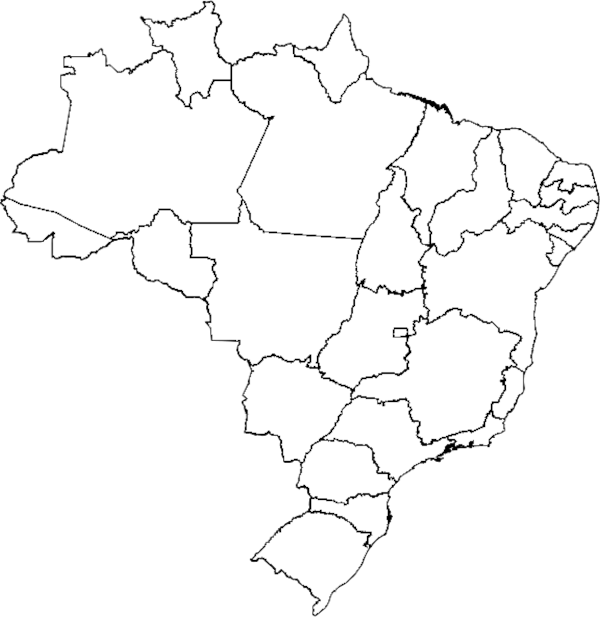
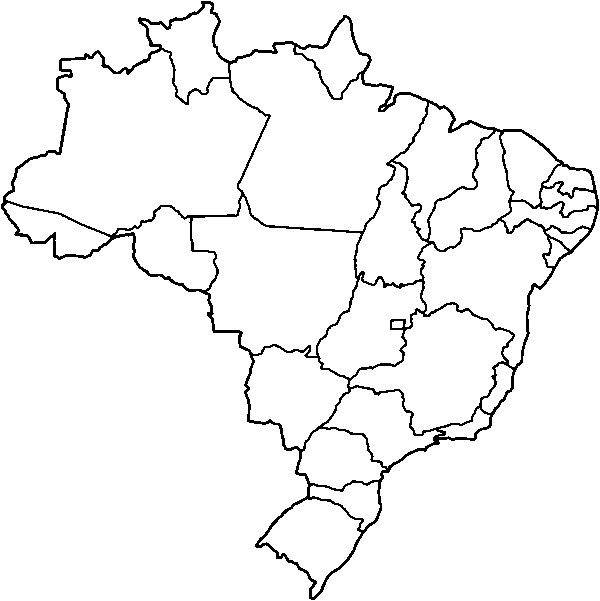
Working on smallest screen size

diff --git a/pages/brazil/index.jsx b/pages/brazil/index.jsx
@@ -7,7 +7,7 @@ import Footer from 'components/footer/footer';
 
 import { styleNumber } from 'utils';
 
-import { COVID_DEATHS, MAP_SIZE, MULTIPLIER, POS } from 'constants/brazil';
+import { COVID_DEATHS, MAP_CONFIG, MULTIPLIER, POS } from 'constants/brazil';
 import {
   COLOR,
   MARKER_LAT_LON_RADIUS,
@@ -21,8 +21,9 @@ import styles from 'styles/country.module.css';
 export default function Country() {
   const { t } = useTranslation('country');
   const canvas = useRef();
-  const latMultiplier = MAP_SIZE.height / MULTIPLIER.lat;
-  const lonMultiplier = MAP_SIZE.height / MULTIPLIER.lon;
+  const mapConfig = MAP_CONFIG.small;
+  const latMultiplier = mapConfig.height / mapConfig.latMult;
+  const lonMultiplier = mapConfig.height / mapConfig.lonMult;
   const [ghostCities, setGhostCities] = useState(new Set());
   const [lockedLatLon, setLockedLatLon] = useState(null);
   const [searchValue, setSearchValue] = useState('');
@@ -44,7 +45,7 @@ export default function Country() {
     },
     {
       title: t('blankMap'),
-      link: 'https://pt.wikipedia.org/wiki/Ficheiro:Brazil_states_blank.png',
+      link: 'https://www.pngwing.com/en/free-png-bbpen',
     },
   ];
 
@@ -184,7 +185,7 @@ export default function Country() {
     let ticker = null;
 
     const drawMap = img => {
-      ctx.drawImage(img, 0, 0, MAP_SIZE.width, MAP_SIZE.height);
+      ctx.drawImage(img, 0, 0, mapConfig.width, mapConfig.height);
     };
 
     const drawMarker = (img, latLon) => {
@@ -218,10 +219,10 @@ export default function Country() {
     markerImg.src = '/images/marker.png';
 
     ticker = setInterval(() => {
-      ctx.clearRect(0, 0, MAP_SIZE.width, MAP_SIZE.height);
+      ctx.clearRect(0, 0, mapConfig.width, mapConfig.height);
 
-      drawMap(mapImg);
       drawCities();
+      drawMap(mapImg);
 
       if (lockedLatLon) {
         drawMarker(markerImg, lockedLatLon);
@@ -239,11 +240,12 @@ export default function Country() {
     <>
       <main className={styles.container}>
         <h2 className={styles.title}>
-          {t('brazil')} - {t('totalCovidDeaths')}<span className="textSeparatorR">:</span>
-          {styleNumber(COVID_DEATHS)} {t('people').toLowerCase()}
+          <span>{t('brazil')} - {t('totalCovidDeaths')}</span>
+          <span className="textSeparatorR">:</span>
+          <span>{styleNumber(COVID_DEATHS)} {t('people').toLowerCase()}</span>
         </h2>
 
-        <div className={styles.mapContainer}>
+        <div className={styles.mainContainer}>
           <div className={styles.infoContainer}>
             <p className={styles.firstParagraph}>{t('goalIsBringAwareness')}</p>
 
@@ -258,8 +260,8 @@ export default function Country() {
             <canvas
               className={styles.map}
               ref={canvas}
-              height={MAP_SIZE.height}
-              width={MAP_SIZE.width}
+              height={mapConfig.height}
+              width={mapConfig.width}
               onMouseMove={canvasMouseMove}
               onClick={canvasClick}
             />
@@ -267,7 +269,7 @@ export default function Country() {
 
           <div className={styles.infoContainer}>
             <div className={styles.infoTitleContainer}>
-              <p className={styles.infoTitle}>{t('thoseCitiesWouldBeEmpty')}</p>
+              <h3 className={styles.infoTitle}>{t('thoseCitiesWouldBeEmpty')}</h3>
 
               <label className={styles.searchField}>
                 <span>{t('search')}</span>

diff --git a/styles/country.module.css b/styles/country.module.css
@@ -1,26 +1,44 @@
 .container {
   min-height: calc(100vh - 199px);
   padding: var(--size-s);
-  padding-top: 0;
+  padding-bottom: var(--size-l);
 }
 
 .title {
+  font-size: var(--text-m);
   margin-top: 0;
   text-align: center;
 }
+.title > span:last-child {
+  display: block;
+}
 
-.mapContainer {
+.mainContainer {
   align-items: flex-start;
   display: flex;
+  flex-direction: column;
 }
 
 .infoContainer {
-  flex: 1;
+  font-size: var(--text-s);
+}
+.infoContainer:first-child {
+  margin-bottom: var(--size-m);
 }
 
 .infoTitleContainer {
   display: flex;
-  justify-content: space-between;
+  flex-direction: column-reverse;
+}
+.infoTitleContainer > h3 {
+  font-size: var(--text-s);
+}
+
+.searchField {
+  margin: var(--size-m) 0 var(--size-l);
+}
+.searchField > span {
+  margin-right: var(--size-s);
 }
 
 .map {
@@ -29,10 +47,8 @@
 }
 
 .citiesList {
-  column-count: 3;
-  column-gap: var(--size-l);
   margin: 0;
-  padding: calc(var(--size-m) + var(--size-s));
+  padding: var(--size-m);
 }
 
 .citiesList > li {
@@ -51,6 +67,9 @@
   margin: 0;
 }
 
-.searchField > span {
-  margin-right: var(--size-s);
+@media only screen and (min-width: 680px) {
+  .citiesList {
+    column-count: 3;
+    column-gap: var(--size-l);
+  }
 }

diff --git a/components/footer/footer.module.css b/components/footer/footer.module.css
@@ -1,11 +1,7 @@
 .footer {
   background-color: var(--color-gray-20);
   color: var(--color-gray-98);
-  display: grid;
-  font-size: var(--text-s);
-  grid-gap: var(--size-s);
-  grid-template-columns: 1fr 1fr;
-  height: 133px;
+  font-size: var(--text-xs);
   padding: var(--size-s);
   width: 100%;
 }
@@ -15,6 +11,7 @@
 }
 
 .footer h3 {
+  font-size: var(--text-xs);
   margin: 0;
 }
 
@@ -30,9 +27,29 @@
   margin-bottom: 0;
 }
 .footer ul > li > span {
+  display: block;
   margin-right: var(--size-s);
+}
+
+.footer > div:last-child {
+  border-top: 1px solid white;
+  margin-top: var(--size-l);
 }
 
 .author {
   margin-top: var(--size-l);
+}
+
+@media only screen and (min-width: 680px) {
+  .footer {
+    background-color: var(--color-gray-20);
+    color: var(--color-gray-98);
+    display: grid;
+    font-size: var(--text-s);
+    grid-gap: var(--size-s);
+    grid-template-columns: 1fr 1fr;
+    height: 133px;
+    padding: var(--size-s);
+    width: 100%;
+  }
 }

diff --git a/components/header/header.module.css b/components/header/header.module.css
@@ -7,7 +7,7 @@
 }
 
 .title {
-  font-size: var(--text-xl);
+  font-size: var(--text-l);
   margin: 0;
   text-align: center;
 }
@@ -19,23 +19,23 @@
 }
 
 .languageSelector > p {
-  font-size: var(--text-s);
+  font-size: var(--text-xs);
   margin: 0 0 var(--size-s) 0;
 }
 .languageSelector > select {
-  font-size: var(--text-s);
+  font-size: var(--text-xs);
 }
 
 @media only screen and (min-width: 375px) {
   .languageSelector > p,
   .languageSelector > select {
-    font-size: var(--text-m);
+    font-size: var(--text-s);
   }
 }
 
 @media only screen and (min-width: 680px) {
   .title {
-    font-size: var(--text-xxl);
+    font-size: var(--text-xl);
   }
   .title > span,
   .title > span:nth-child(2) {

diff --git a/constants/brazil.js b/constants/brazil.js
@@ -1,16 +1,21 @@
-export const MAP_SIZE = {
-  height: 617,
-  width: 600,
+export const MAP_CONFIG = {
+  small: {
+    height: 309,
+    width: 300,
+    latMult: 39.1,
+    lonMult: 40.3,
+  },
+  large: {
+    height: 617,
+    width: 600,
+    latMult: 39.1,
+    lonMult: 40.3,
+  },
 };
 
 export const POS = {
   lat: 5.251389,
   lon: -73.984444,
-};
-
-export const MULTIPLIER = {
-  lat: 39.1,
-  lon: 40.3,
 };
 
 export const COVID_DEATHS = 575829;

diff --git a/styles/globals.css b/styles/globals.css
@@ -17,11 +17,12 @@
   --size-m: 16px;
   --size-l: 32px;
 
-  --text-s: 12px;
-  --text-m: 14px;
-  --text-l: 16px;
-  --text-xl: 18px;
-  --text-xxl: 20px;
+  --text-xs: 12px;
+  --text-s: 14px;
+  --text-m: 16px;
+  --text-l: 18px;
+  --text-xl: 20px;
+  --text-xxl: 22px;
 
   --breakpoint-xxs: 320px;
   --breakpoint-xs: 375px;

diff --git a/README.md b/README.md
@@ -21,4 +21,4 @@ No results are guaranteed. Use this software at your own risk.
 
 - Latitude and Longitude of cities: https://github.com/kelvins/Municipios-Brasileiros
 
-- Blank map: https://pt.wikipedia.org/wiki/Ficheiro:Brazil_states_blank.png
+- Blank map: https://www.pngwing.com/en/free-png-bbpen
